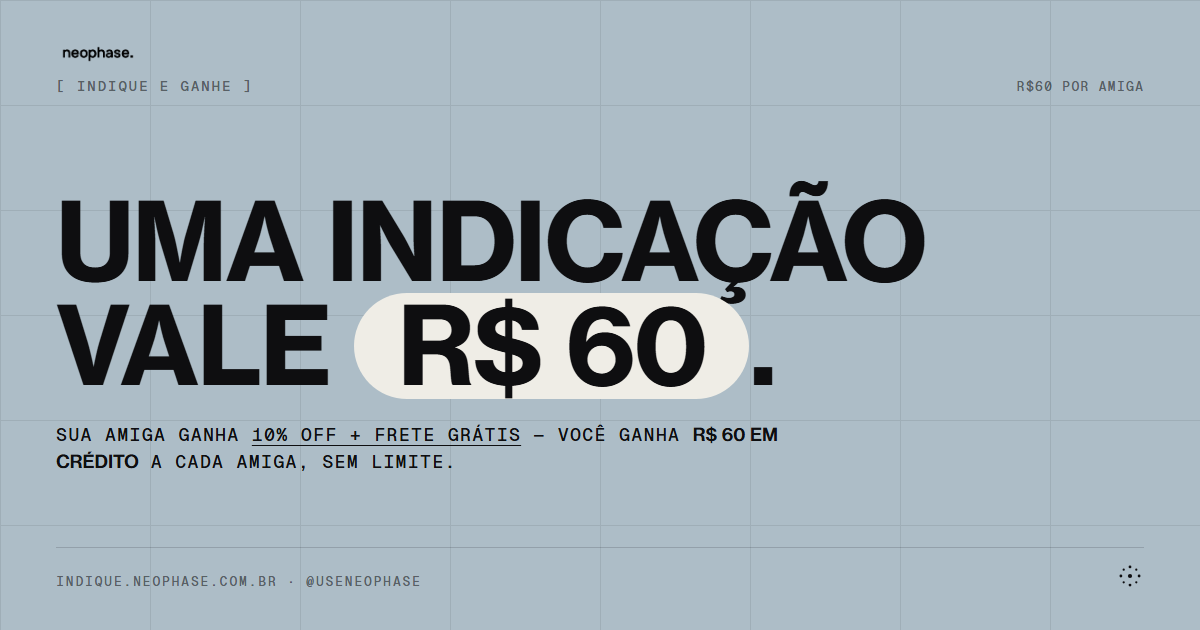
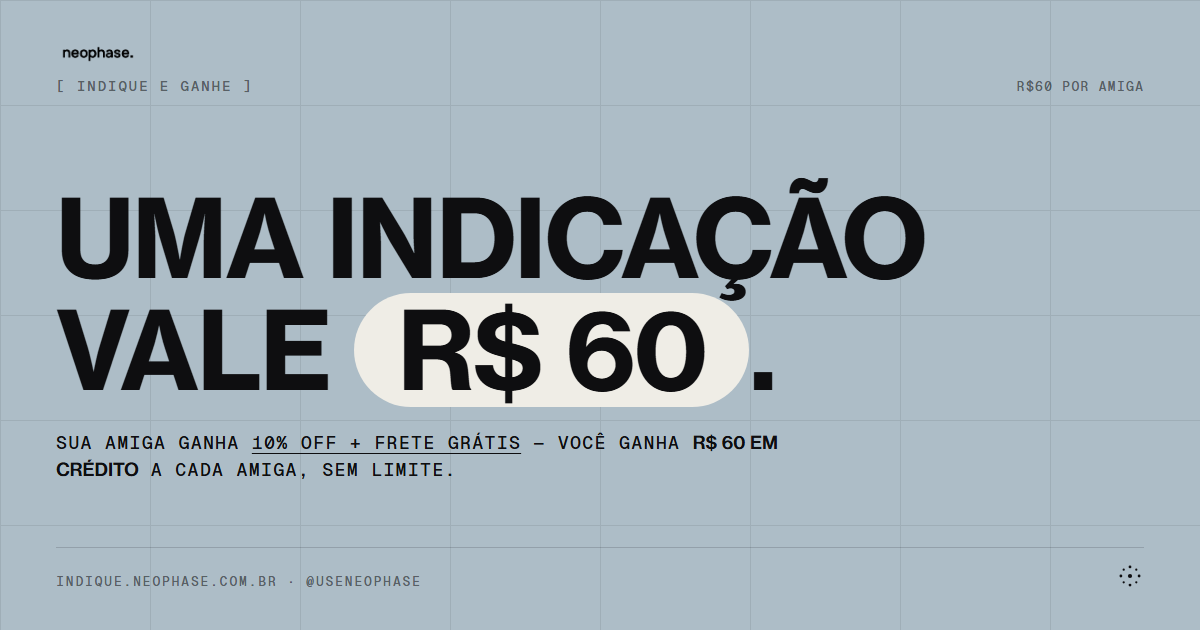
ajusta line-height 0.94 -> 1.02 pra cedilha do C respirar

diff --git a/index.html b/index.html
@@ -80,7 +80,7 @@ h1 {
   font-family: 'Helvetica Neue', Helvetica, Arial, sans-serif;
   font-weight: 800;
   font-size: clamp(48px, 12vw, 88px);
-  line-height: 0.94;
+  line-height: 1.04;
   letter-spacing: -0.02em;
   text-transform: uppercase;
   color: var(--ink);
